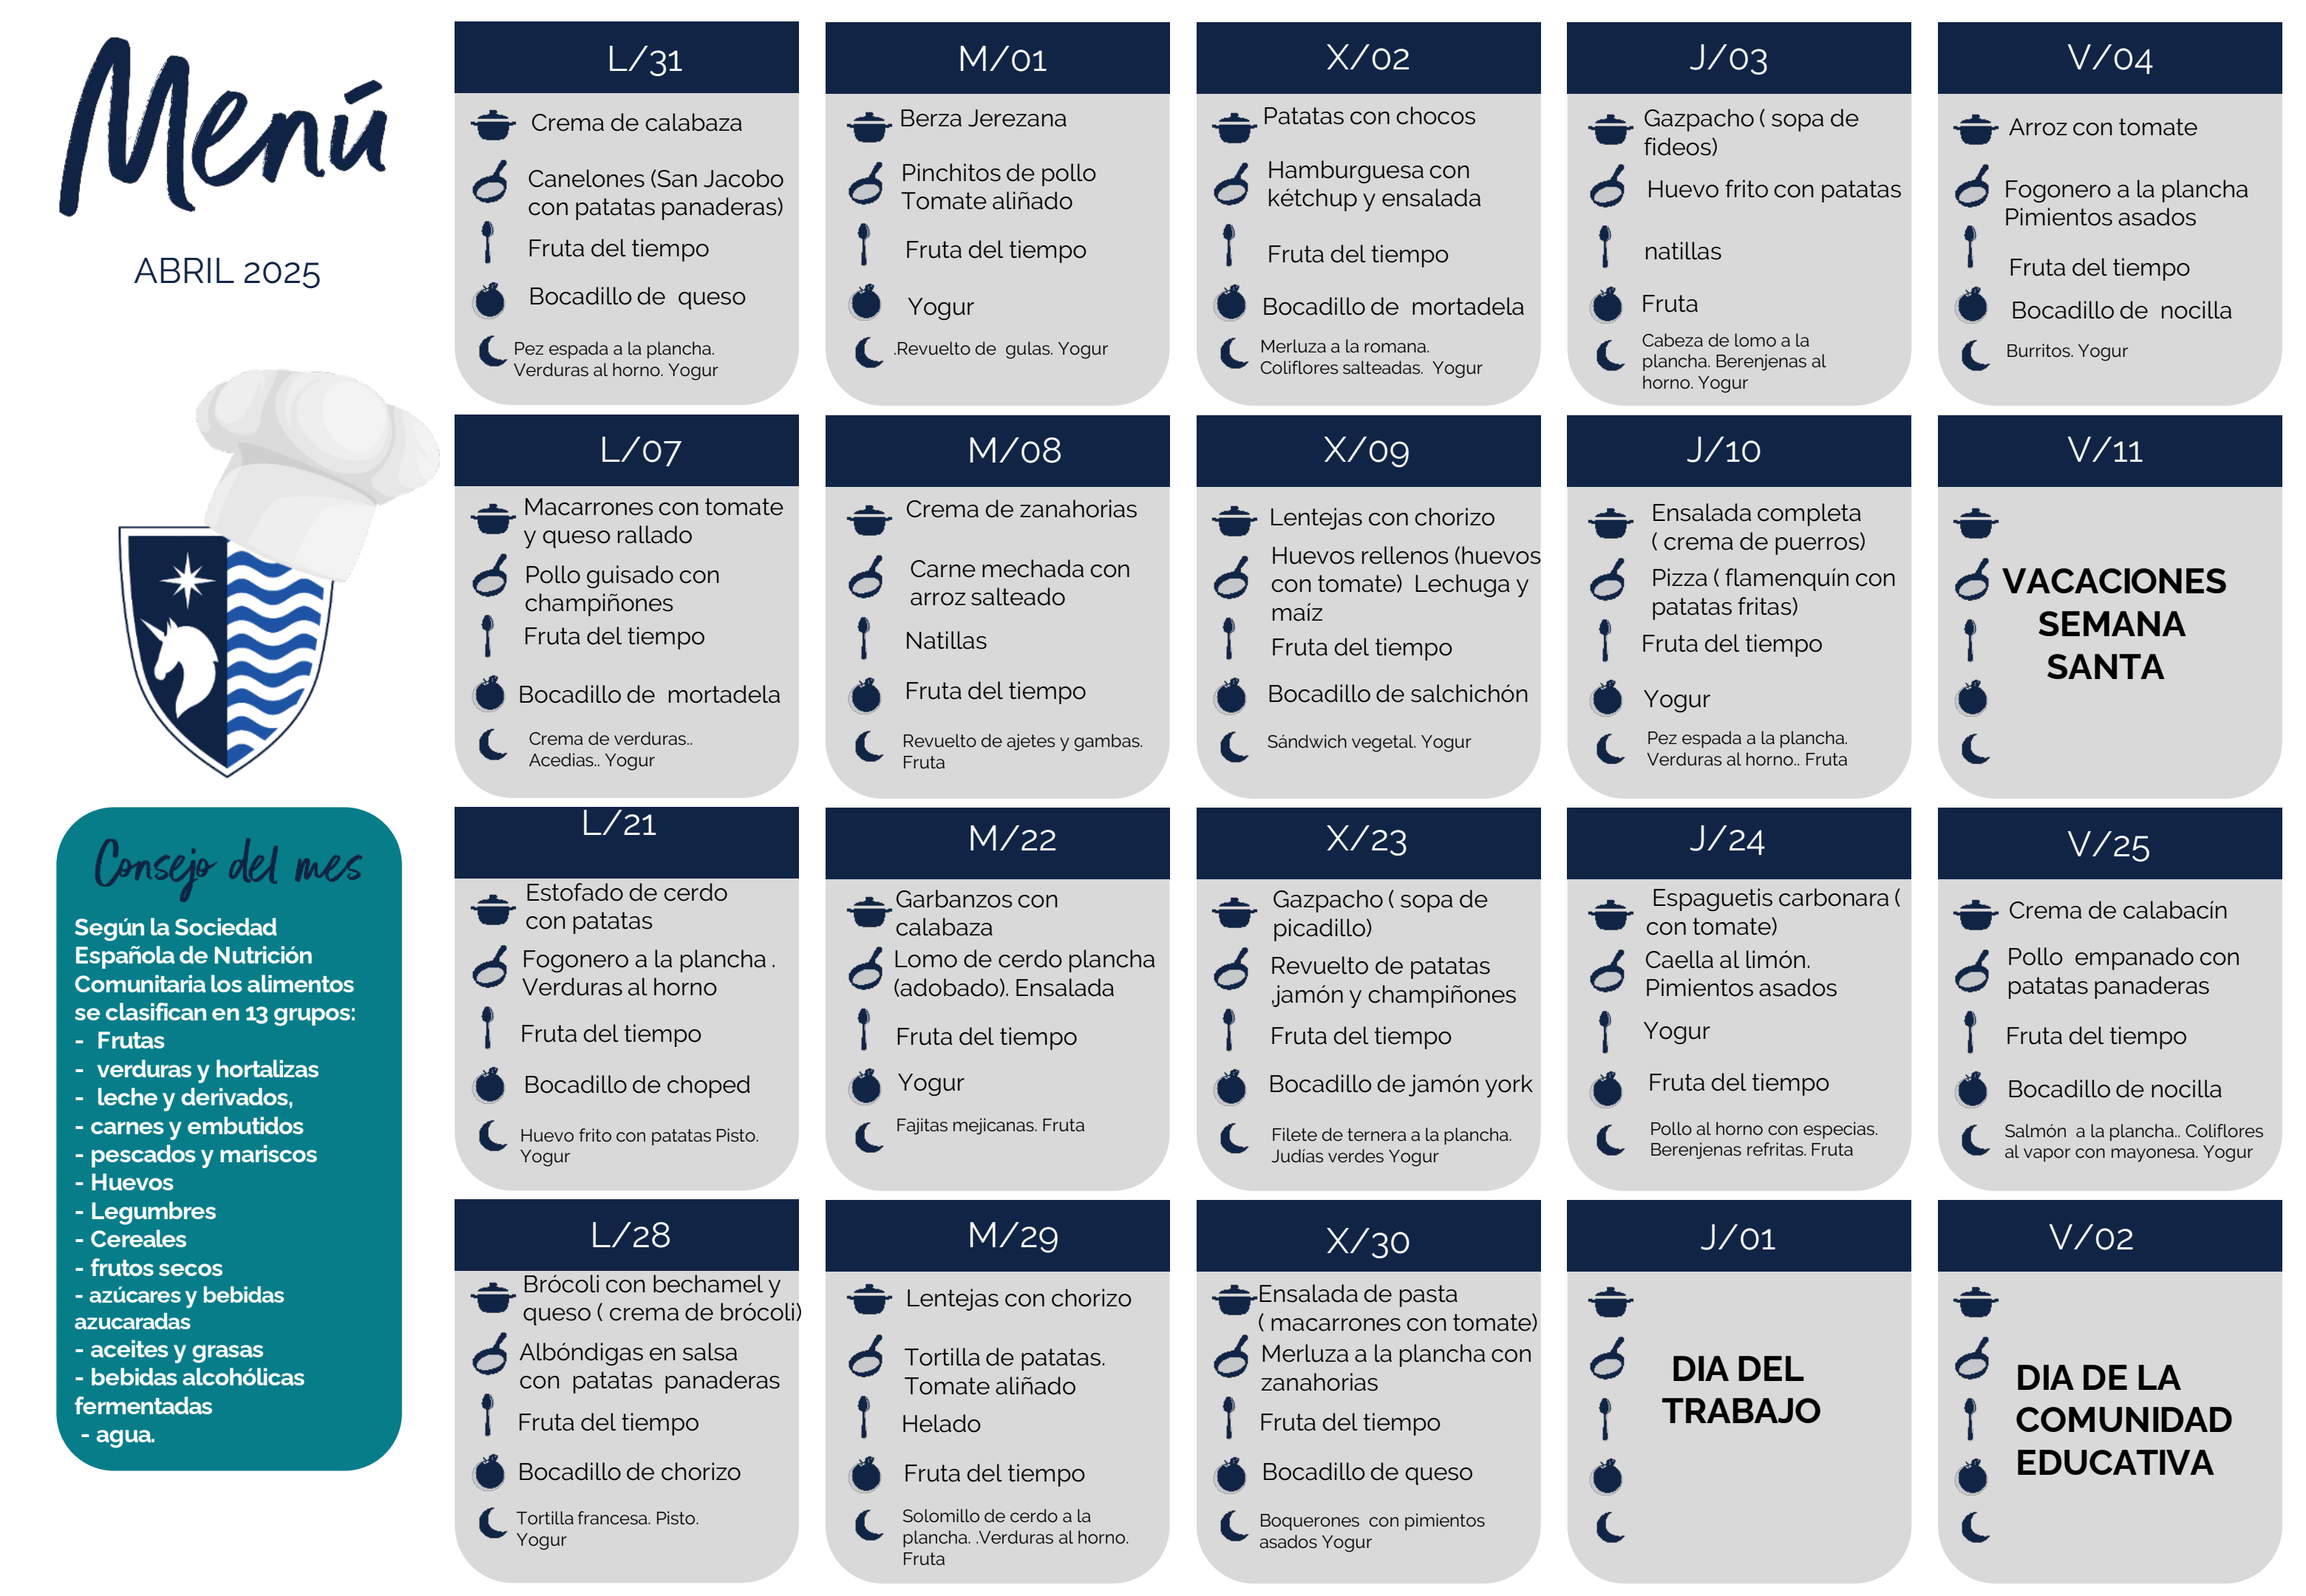
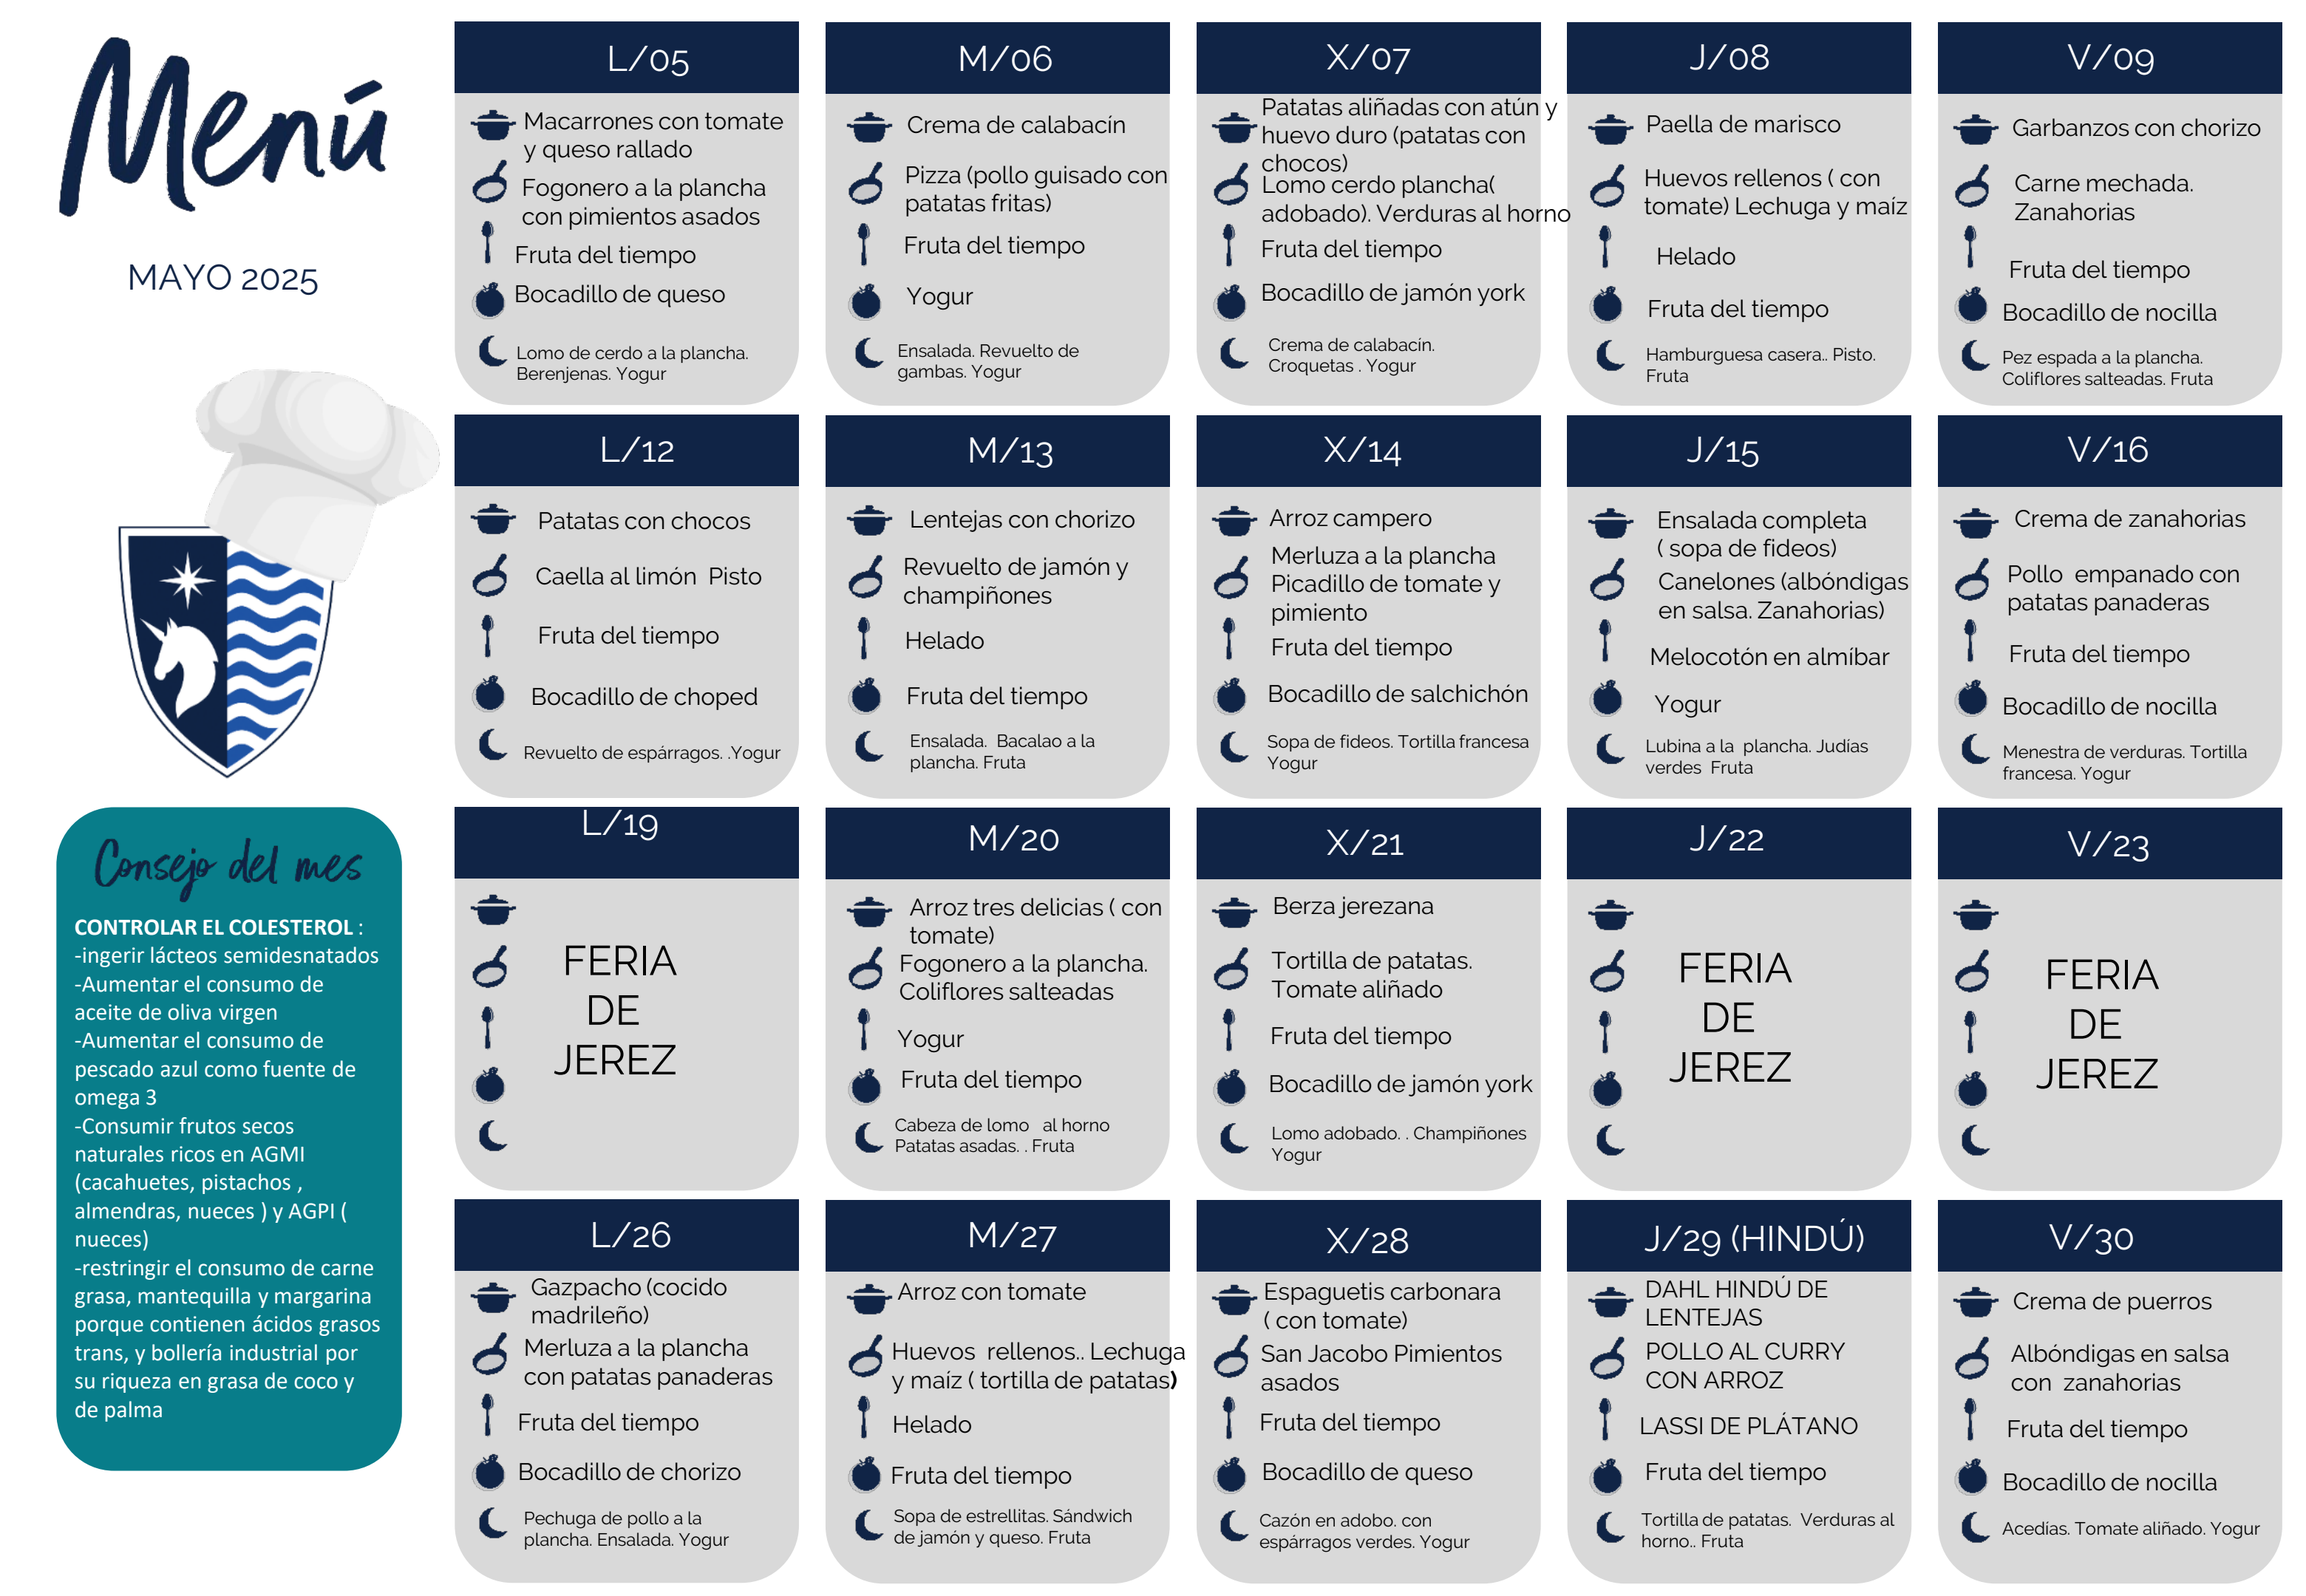
menu

diff --git a/pages/menu.html b/pages/menu.html
@@ -37,24 +37,24 @@
 </center>
 <script>
   const menu = {
-  "Lunes 31 Mar": ["Crema de calabaza", "Canelones (San Jacobo con patatas panaderas)", "Fruta del tiempo"],
-  "Martes 1 Abr": ["Berza Jerezana", "Pinchitos de pollo", "Fruta del tiempo"],
-  "Miércoles 2 Abr": ["Patatas con chocos", "Hamburguesa con kétchup y ensalada", "Fruta del tiempo"],
-  "Jueves 3 Abr": ["Gazpacho (sopa de fideos)", "Huevo frito con patatas", "Natillas"],
-  "Viernes 4 Abr": ["Arroz con tomate", "Fogonero a la plancha", "Pimientos asados"],
-  "Lunes 7 Abr": ["Macarrones con tomate y queso rallado", "Pollo guisado con champiñones", "Fruta del tiempo"],
-  "Martes 8 Abr": ["Crema de zanahorias", "Carne mechada con arroz salteado", "Natillas"],
-  "Miércoles 9 Abr": ["Lentejas con chorizo", "Huevos rellenos (huevos con tomate) Lechuga y maíz", "Fruta del tiempo"],
-  "Jueves 10 Abr": ["Ensalada completa (crema de puerros)", "Pizza (flamenquín con patatas fritas)", "Fruta del tiempo"],
-  "Lunes 21 Abr": ["Estofado de cerdo con patatas", "Fogonero a la plancha", "Verduras al horno"],
-  "Martes 22 Abr": ["Garbanzos con calabaza", "Lomo de cerdo plancha (adobado) Ensalada", "Fruta del tiempo"],
-  "Miércoles 23 Abr": ["Gazpacho (sopa de picadillo)", "Revuelto de patatas jamón y champiñones", "Fruta del tiempo"],
-  "Jueves 24 Abr": ["Espaguetis carbonara (con tomate)", "Caella al limón", "Pimientos asados"],
-  "Viernes 25 Abr": ["Crema de calabacín", "Pollo empanado con patatas panaderas", "Fruta del tiempo"],
-  "Lunes 28 Abr": ["Brócoli con bechamel y queso (crema de brócoli)", "Albóndigas en salsa con patatas panaderas", "Fruta del tiempo"],
-  "Martes 29 Abr": ["Lentejas con chorizo", "Tortilla de patatas / Tomate aliñado", "Helado"],
-  "Miércoles 30 Abr": ["Ensalada de pasta (macarrones con tomate)", "Merluza a la plancha con zanahorias", "Fruta del tiempo"]
-};
+  "Lunes 5 May": ["Macarrones con tomate y queso rallado", "Fogonero a la plancha con pimientos asados", "Fruta del tiempo"],
+  "Martes 6 May": ["Crema de calabacín", "Pizza (pollo guisado con patatas fritas)", "Fruta del tiempo"],
+  "Miércoles 7 May": ["Patatas aliñadas con atún y huevo duro (patatas con chocos)", "Lomo cerdo plancha (adobado). Verduras al horno", "Fruta del tiempo"],
+  "Jueves 8 May": ["Paella de marisco", "Huevos rellenos (con tomate) Lechuga y maíz", "Helado"],
+  "Viernes 9 May": ["Garbanzos con chorizo", "Carne mechada. Zanahorias", "Fruta del tiempo"],
+  "Lunes 12 May": ["Patatas con chocos", "Caella al limón Pisto", "Fruta del tiempo"],
+  "Martes 13 May": ["Lentejas con chorizo", "Revuelto de jamón y champiñones", "Helado"],
+  "Miércoles 14 May": ["Arroz campero", "Merluza a la plancha", "Picadillo de tomate y pimiento", "Fruta del tiempo"],
+  "Jueves 15 May": ["Ensalada completa (sopa de fideos)", "Canelones (albóndigas en salsa. Zanahorias)", "Melocotón en almíbar"],
+  "Viernes 16 May": ["Crema de zanahorias", "Pollo empanado con patatas panaderas", "Fruta del tiempo"],
+  "Lunes 20 May": ["Arroz tres delicias (con tomate)", "Fogonero a la plancha. Coliflores salteadas", "Fruta del tiempo"],
+  "Martes 21 May": ["Berza jerezana", "Tortilla de patatas. Tomate aliñado", "Fruta del tiempo"],
+  "Lunes 26 May": ["Gazpacho (cocido madrileño)", "Merluza a la plancha con patatas panaderas", "Fruta del tiempo"],
+  "Martes 27 May": ["Arroz con tomate", "Huevos rellenos. Lechuga y maíz (tortilla de patatas)", "Helado"],
+  "Miércoles 28 May": ["Espaguetis carbonara (con tomate)", "San Jacobo Pimientos asados", "Fruta del tiempo"],
+  "Jueves 29 May": ["DAHL HINDÚ DE LENTEJAS", "POLLO AL CURRY CON ARROZ", "LASSI DE PLÁTANO"],
+  "Viernes 30 May": ["Crema de puerros", "Albóndigas en salsa con zanahorias", "Fruta del tiempo"]
+  };
   function getFormattedDate() {
     const daysOfWeek = ["Domingo", "Lunes", "Martes", "Miércoles", "Jueves", "Viernes", "Sábado"];
     const months = ["Ene", "Feb", "Mar", "Abr", "May", "Jun", "Jul", "Ago", "Sep", "Oct", "Nov", "Dic"];
